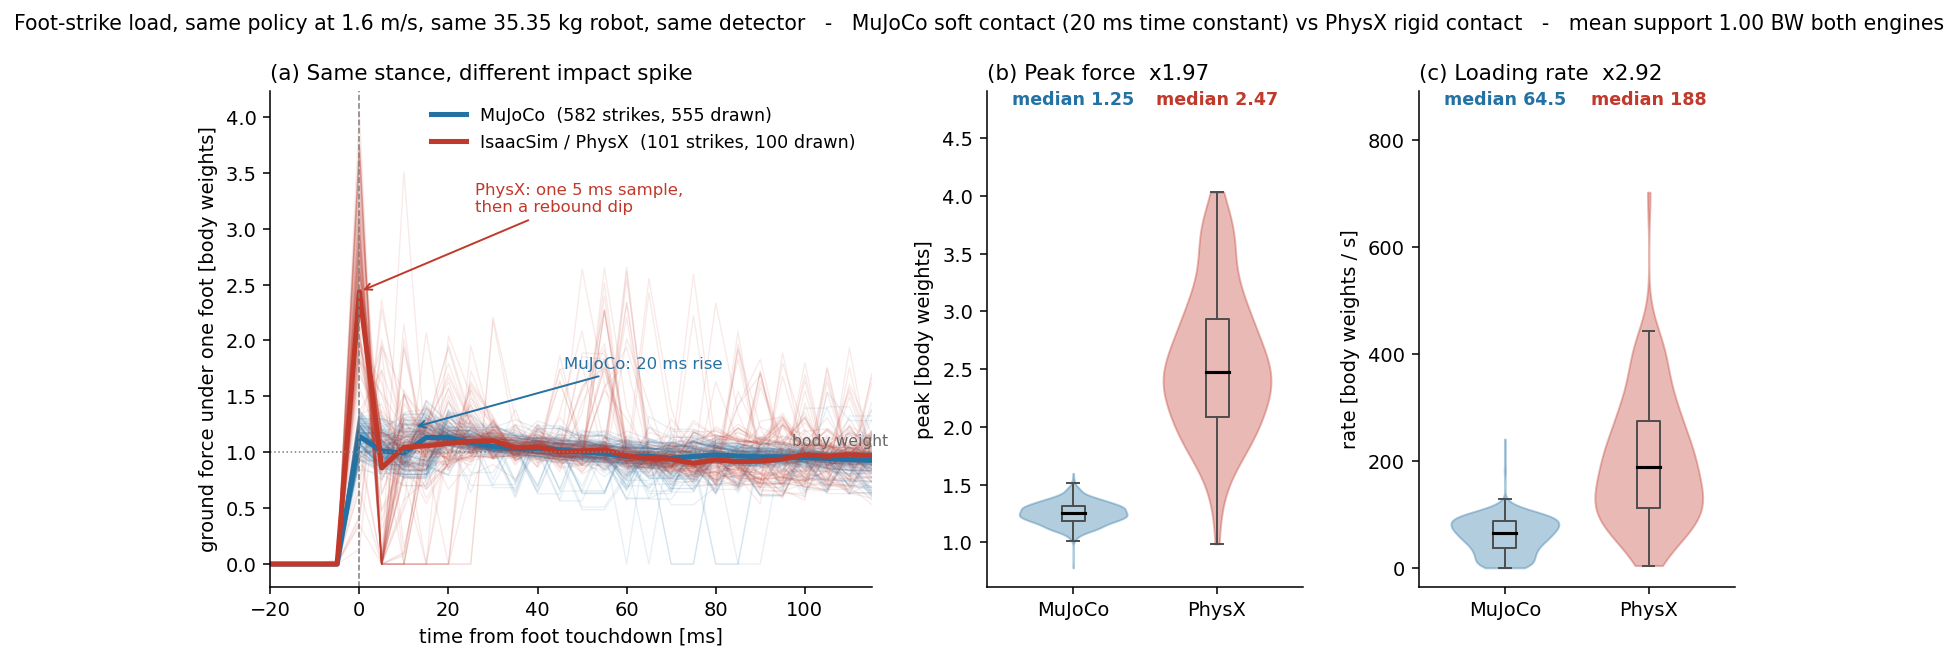
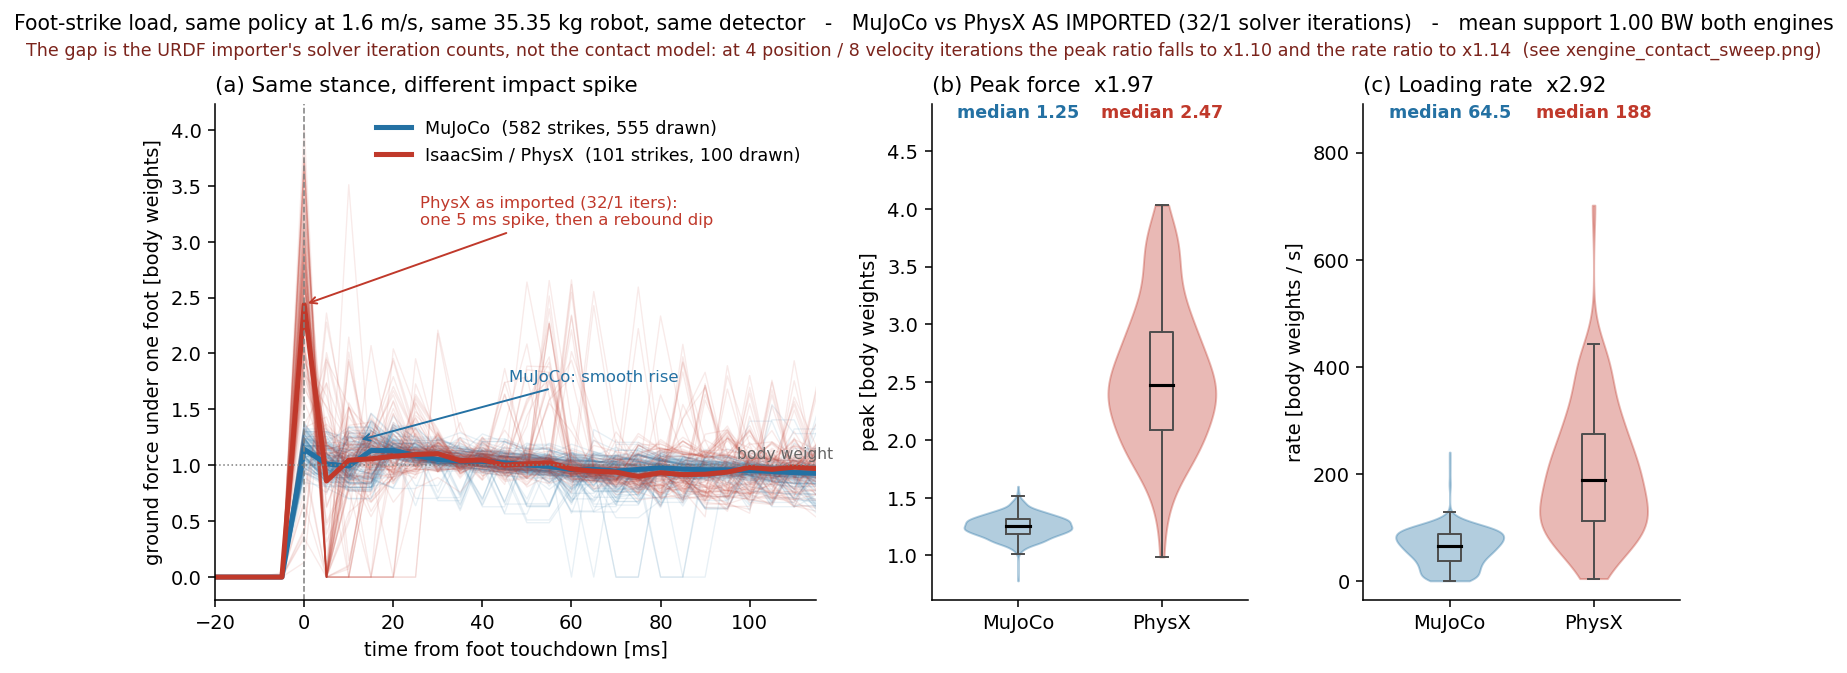
correct my own attribution: the peak gap was solver iterations, not the contact model
In cbe131d I measured the Isaac-vs-MuJoCo foot-strike gap correctly and then named
the wrong cause. I wrote that the x1.97 peak and x2.92 loading rate came from the
contact model - MuJoCo's solref (0.02, 1) spreading the impact over 20 ms against a
rigid PhysX contact - and put that claim in the figure caption, the module docstring
and the briefing page an outside auditor reads.

The 22-arm one-knob-at-a-time sweep (1b7dcf6 / bbf938a) disproved it, and disproved
it directly rather than by inference: the compliant-contact arm derived from MuJoCo's
own solref was actually run, and it closed the peak while pushing the tracking error
from 0.139 to 0.195. My hypothesis was testable, was tested, and lost. The real cause
is the solverPositionIterationCount / solverVelocityIterationCount the URDF importer
silently wrote as 32/1; at 4/8 the peak ratio falls to x1.10 and the rate ratio to
x1.14.

I verified the correction against the sweep's own JSON rather than its commit message.
The baseline arm reproduces my run exactly - vx_err 0.13858409302325575, peak 2.4713
BW, rate 188.4 BW/s, 101 strikes - and c0_deinst and e_bounce02 are bit-identical to
it, which is what makes the deltas in the other arms attributable to their knobs. The
measurement stands; only the explanation was wrong.

So only the explanation is rewritten. The figure keeps its data and loses its caption:
it is now labelled "PhysX AS IMPORTED (32/1 solver iterations)" with a subtitle naming
[…]

diff --git a/tools/sim2sim/plot_grf_xengine.py b/tools/sim2sim/plot_grf_xengine.py
@@ -1,4 +1,17 @@
-"""Draw the Isaac-vs-MuJoCo landing comparison: the same gait, a different contact model.
+"""Draw the Isaac-vs-MuJoCo landing comparison for the PhysX baseline AS IMPORTED.
+
+CORRECTED 2026-08-27: this figure first carried the caption "MuJoCo soft contact (20 ms
+time constant) vs PhysX rigid contact", i.e. it named the CONTACT MODEL as the reason the
+PhysX peak is twice MuJoCo's. A 22-arm one-knob-at-a-time sweep disproved that. The cause
+is the solver ITERATION COUNTS the URDF importer silently wrote (32 position / 1 velocity):
+at 4/8 the peak ratio falls from x1.97 to x1.10 and the loading rate from x2.92 to x1.14.
+The compliant-contact arm derived from MuJoCo's own solref was measured too and did NOT
+explain the gap - it closed the peak but pushed the tracking error from 0.139 to 0.195.
+See docs/img/xengine_contact_sweep.png and tools/sim2sim/plot_contact_sweep.py.
+
+The DATA here is unchanged and still correct - the sweep's baseline arm reproduces it bit
+for bit (peak 2.4713 BW, rate 188.4 BW/s, 101 strikes, vx_err 0.13858409302325575). Only
+the causal caption was wrong, so only the caption was rewritten.
 
 Three panels, because the claim has three parts and a table alone hides the shape of it:
   (a) every detected strike from both engines, aligned on touchdown, one faint line each,
@@ -90,11 +103,11 @@ ax.plot(tm, np.median(Wm, axis=0), color=C_M, lw=2.6,
         label=f'MuJoCo  ({len(pm)} strikes, {len(Wm)} drawn)')
 ax.plot(ti, np.median(Wi, axis=0), color=C_I, lw=2.6,
         label=f'IsaacSim / PhysX  ({len(pi)} strikes, {len(Wi)} drawn)')
-ax.annotate('PhysX: one 5 ms sample,\nthen a rebound dip',
+ax.annotate('PhysX as imported (32/1 iters):\none 5 ms spike, then a rebound dip',
             xy=(0, float(np.median(Wi, axis=0).max())), xytext=(26, 3.15),
             fontsize=8.5, color=C_I,
             arrowprops=dict(arrowstyle='->', color=C_I, lw=1.0))
-ax.annotate('MuJoCo: 20 ms rise', xy=(12, 1.22), xytext=(46, 1.75),
+ax.annotate('MuJoCo: smooth rise', xy=(12, 1.22), xytext=(46, 1.75),
             fontsize=8.5, color=C_M,
             arrowprops=dict(arrowstyle='->', color=C_M, lw=1.0))
 ax.axvline(0, color='0.5', lw=0.8, ls='--')
@@ -135,9 +148,13 @@ dist(fig.add_subplot(gs[0, 2]), ri, rm,
      f'(c) Loading rate  x{np.median(ri)/np.median(rm):.2f}', 'rate [body weights / s]')
 
 fig.suptitle('Foot-strike load, same policy at 1.6 m/s, same 35.35 kg robot, same detector'
-             f'   -   MuJoCo soft contact (20 ms time constant) vs PhysX rigid contact'
-             f'   -   mean support 1.00 BW both engines',
-             fontsize=10.5, y=1.0)
+             '   -   MuJoCo vs PhysX AS IMPORTED (32/1 solver iterations)'
+             '   -   mean support 1.00 BW both engines',
+             fontsize=10.5, y=1.02)
+fig.text(0.5, 0.955, 'The gap is the URDF importer\'s solver iteration counts, not the contact '
+         'model: at 4 position / 8 velocity iterations the peak ratio falls to x1.10 and the '
+         'rate ratio to x1.14  (see xengine_contact_sweep.png)',
+         ha='center', fontsize=9, color='#7b241c')
 os.makedirs(os.path.dirname(OUT), exist_ok=True)
 fig.savefig(OUT, dpi=140, bbox_inches='tight')
 print('wrote', OUT)

diff --git a/tools/sim2sim/isaac_grf_rollout.py b/tools/sim2sim/isaac_grf_rollout.py
@@ -637,7 +637,10 @@ try:
                              ratio=None if not a or not b else round(a / b, 3),
                              pct_diff=None if not a or not b else round(100 * (a / b - 1), 1)))
         res['comparison'] = rows
-        # Contact models, for the record - this is the difference the table is measuring.
+        # Contact models, for the record. NOT the explanation for the peak gap - that was
+        # this file's original claim and the 22-arm sweep disproved it. The gap is the
+        # solver iteration counts (see `knobs`); a compliant-contact arm derived from the
+        # solref below closed the peak but made tracking worse (vx_err 0.139 -> 0.195).
         # MuJoCo values read off the loaded model (mjlab xmls/pygmalion_v3_printed.xml).
         res['contact_models'] = dict(
             mujoco=dict(engine='MuJoCo (mjlab, Newton solver, 100 iters)',

diff --git a/docs/000.Real-time Brefing.md b/docs/000.Real-time Brefing.md
@@ -1,16 +1,16 @@
 # 실시간 브리핑 — Pygmalion 보행 로봇
 
-*마지막 갱신 2026-08-27 19:15 (KST). 이 페이지는 자동 생성됩니다 — 손으로 고치지 말고 `tools/briefing/briefing.py`로 바꾸세요.*
+*마지막 갱신 2026-08-27 19:41 (KST). 이 페이지는 자동 생성됩니다 — 손으로 고치지 말고 `tools/briefing/briefing.py`로 바꾸세요.*
 
 > **이 프로젝트가 뭘 하는 건가**: 두 발 로봇을 시뮬레이션 안에서 걷도록 학습시키고, 걸을 때 관절과 뼈대에 걸리는 **힘을 측정해서 실제 하드웨어를 어떤 크기로 만들지 정하는 것**이 목표입니다. 로봇을 실제로 만들기 전에, 모터가 얼마나 세야 하는지·부품이 얼마나 튼튼해야 하는지를 숫자로 알아내려는 겁니다.
 
 ## 지금 하고 있는 일
 
-**Fusion 대화상자 닫히기 대기 — 닫히면 부품 사진 채움**
+**폐루프(AB) 발목 로봇을 다른 시뮬레이터에서 실제로 걷게 하는 중 — 그래픽카드 순서를 기다리고 있습니다**
 
-연결은 복구됐습니다. Fusion 화면에 열려 있는 명령 창만 닫으면 사진을 받아올 수 있습니다.
+정지 상태 확인은 끝났고, 이제 45초씩 걷게 해서 착지 힘과 관절에 걸리는 힘을 함께 재는 단계입니다. 다른 작업이 그래픽카드를 쓰고 있어 차례를 기다립니다.
 
-*시작 2026-08-27 19:06*
+*시작 2026-08-27 19:33*
 
 ## 다음에 할 일
 
@@ -43,6 +43,16 @@
 
 
 ## 끝난 일 (최신순)
+
+### 두 시뮬레이터의 충격 수치 차이 — 원인 확정, 갭 해소
+
+**왜 하는가** — 충격력이 엔진에 따라 2배 다르면 어느 쪽도 설계 근거가 못 됩니다.
+
+**결과** — 원인은 변환 도구가 몰래 써넣은 계산 정밀도 설정(32/1)이었습니다. 표준값(4/8)으로 바꾸니 피크 차이가 2배에서 10%로 줄었습니다. 22개 조건을 하나씩 바꿔가며 측정했고, 이제 '어떤 숫자를 어떤 조건에서 믿어도 되는가'가 확정됐습니다: 충격량·박자는 무조건, 피크·상승률은 정밀도 설정 병기 시.
+
+**근거 숫자** — 피크 ×1.97→×1.10, 하중률 ×2.92→×1.14, 추종 0.087(원본 0.14보다 좋음)
+
+*2026-08-27 19:18*
 
 ### 착지 힘 2배 차이의 범인 — 모델 변환기가 써 넣은 설정 한 줄
 
@@ -116,16 +126,7 @@
 
 *2026-08-27 17:57*
 
-### IsaacSim 설치 완료
-
-**왜 하는가** — 지금까지 결과는 전부 시뮬레이터 한 종류에서 나왔습니다. 하드웨어 설계 근거로 쓰려면 다른 엔진에서도 같은 힘이 나오는지 확인해야 합니다.
-
-**결과** — 설치하고 실제로 실행되는 것까지 확인했습니다. 물리 장면 생성도 됩니다. 처음 실행은 5분 걸렸지만 이후에는 7초입니다.
-
-**근거 숫자** — 16 GB 설치, 디스크 69 GB 남음
-
-*2026-08-27 17:11*
-
+- ~~IsaacSim 설치 완료~~ — 설치하고 실제로 실행되는 것까지 확인했습니다. 물리 장면 생성도 됩니다. 처음 실행은 5분 걸렸지만 이후에는 7초입니다. *(요약 보관)*
 - ~~어깨 출력물 무게 조사표 작성~~ — 10개 부품 표를 만들었습니다. 조사 중에 두 가지가 드러났습니다 — (1) 어깨 브래킷 한 개가 도면상 아직 '금속'으로 잡혀 있어 출력물일 때보다 9배 무겁게(543 g vs 61 g) 계산되고 있었고, (2) 그 부품을 포함해 **부품 11개(합계 873 g)가 로봇 모델에서 통째로 빠져 있습니다** — 특히 IMU 조립체가 통째로(165 g) 빠져 있습니다. *(요약 보관)*
 - ~~실시간 브리핑 자동화~~ — 작업이 움직였는데 이 페이지가 그대로면 세션이 종료되지 않도록 막아뒀습니다. 학습·측정·영상·커밋 직후에는 즉시 알림이 뜹니다. *(요약 보관)*
 - ~~새 모델로 다시 학습 — 통과~~ — 잘 걷습니다. 32번 시험 전부 성공, 넘어짐 0회. 다만 예상 밖의 결과가 하나 나왔습니다 — 4 kg을 덜어냈는데 착지할 때 발에 걸리는 힘은 그대로였습니다. 몸이 가벼워진 만큼 몸무게 대비 부담은 오히려 15% 커졌습니다. **부품을 가볍게 만든다고 충격이 줄지는 않는다**는 뜻입니다. *(요약 보관)*
@@ -176,3 +177,17 @@
 **바로잡은 결론** — 실제로는 **11개 873 g**입니다. 앞 숫자에는 이름부터 '시뮬레이션 제외(NoSim)'라고 붙어 있어 일부러 뺀 부품 2개(97 g)가 잘못 섞여 있었습니다. 빠진 873 g의 내역은 어깨 브래킷 543 g, IMU 조립체 전체 165 g(센서보드·케이스·어댑터), 프레임 압출재 160 g, 나사 2개 6 g입니다.
 
 *2026-08-27 19:06*
+
+### 착지 힘 2배 차이의 원인 — 내가 지목한 범인이 틀렸다
+
+**어떻게 발견했나** — 원인을 '바닥의 물렁함 설정'으로 지목하고 그 근거로 기존 엔진의 설정값(20 ms)을 들었습니다. 그 뒤 설정을 하나씩 22가지로 바꿔가며 재본 결과, 그 가설이 직접 반증됐습니다 — 실제로 물렁한 바닥 설정을 새 엔진에 넣어 봤더니 최대 힘은 맞춰졌지만 걷는 속도 정확도가 오히려 나빠졌습니다(오차 0.139 → 0.195).
+
+**근거 숫자** — 최대 힘 비 1.97배 → 1.10배, 상승률 비 2.92배 → 1.14배, 속도 오차 0.139 → 0.118. 반증된 가설(물렁한 바닥)을 실제로 넣은 결과: 최대 힘은 맞았으나 속도 오차 0.195로 악화. 측정한 설정 22가지, 기준 재현은 소수점 17자리까지 일치
+
+**처음 결론** — 두 엔진의 착지 최대 힘이 2배 다른 것은 바닥이 얼마나 물렁한가의 설정 차이 때문이다. 기존 엔진은 충돌을 20 ms에 걸쳐 퍼뜨리고, 새 엔진은 딱딱해서 5 ms 한 칸에 몰린다.
+
+**바로잡은 결론** — 원인은 바닥이 아니라 **모델 변환기가 말없이 써 넣은 계산 반복 횟수** 한 줄이었습니다. 변환기가 넣은 값(32/1)은 업계 표준 설정(8/4, 4/4)과 동떨어진, 측정한 것 중 가장 나쁜 값이었습니다. 표준에 가까운 값으로 고치니 두 엔진의 차이가 거의 사라집니다: 최대 힘 1.97배 → 1.10배, 힘 상승률 2.92배 → 1.14배. 걷는 속도 정확도도 함께 좋아졌습니다(0.139 → 0.118).
+
+![[xengine_contact_sweep.png]]
+
+*2026-08-27 19:41*
